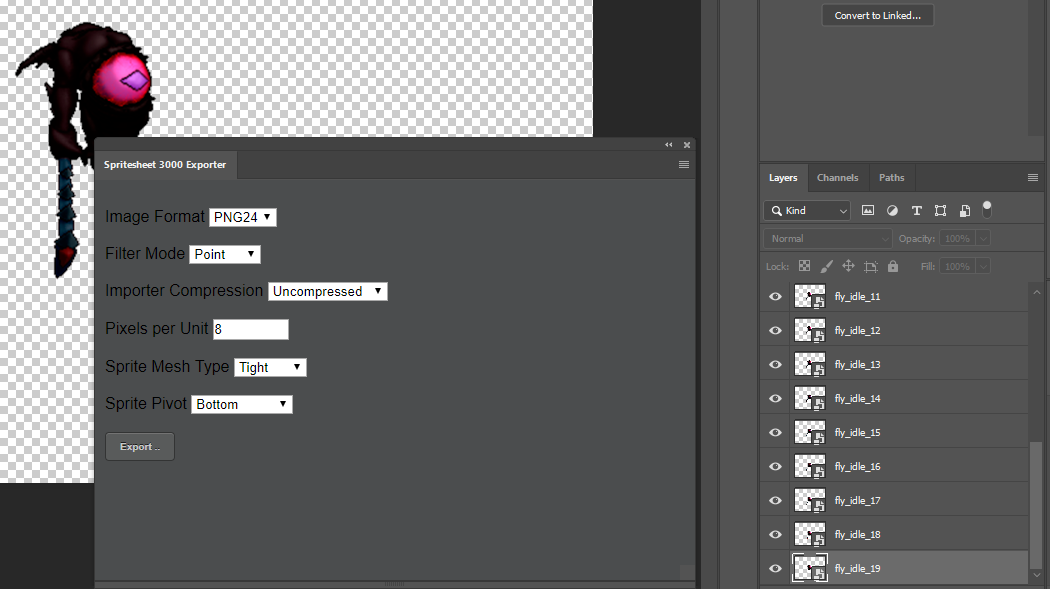
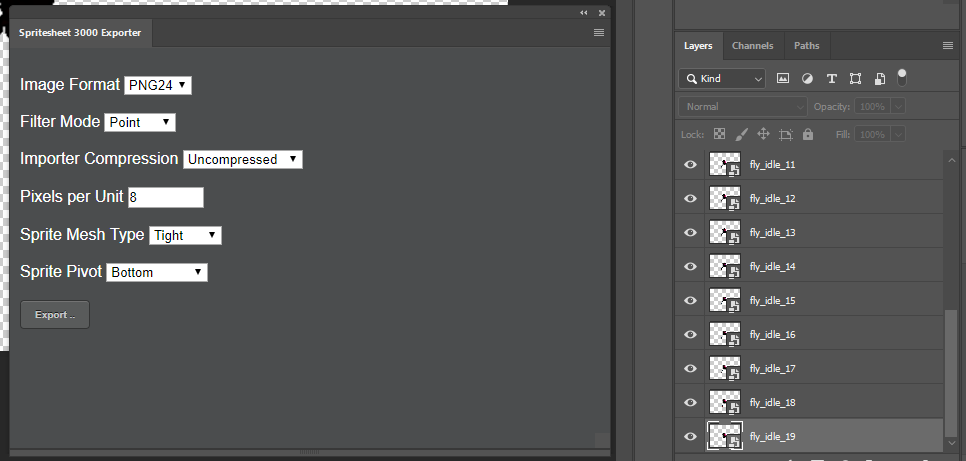
updated extension design

diff --git a/Editor/AdobePhotoshop/CC/com.am1goo.photoshop.extension.spritesheet3000/html/index.html b/Editor/AdobePhotoshop/CC/com.am1goo.photoshop.extension.spritesheet3000/html/index.html
@@ -14,7 +14,7 @@
     <div id="content">        
         <br>
         <div>
-            <span>Image Format</span>
+            <span style="color:white">Image Format</span>
             <select id="ddl_export_image_format" name="export_image_format">
                 <option selected="selected">PNG24</option>
                 <option>PNG8</option>
@@ -23,7 +23,7 @@
         </div>
         <br>
          <div>
-            <span>Filter Mode</span>
+            <span style="color:white">Filter Mode</span>
             <select id="ddl_export_filter_mode" name="export_filter_mode">
                 <option selected="selected">Point</option>
                 <option>Bilinear</option>
@@ -32,7 +32,7 @@
         </div>
         <br>
 		<div>
-            <span>Importer Compression</span>
+            <span style="color:white">Importer Compression</span>
             <select id="ddl_export_importer_compression" name="export_importer_compression">
                 <option selected="selected">Uncompressed</option>
                 <option>Compressed</option>
@@ -42,12 +42,12 @@
         </div>
 		<br>
 		<div>
-            <span>Pixels per Unit</span>
+            <span style="color:white">Pixels per Unit</span>
             <input id="ddl_export_pixels_per_unit" name="export_pixels_per_unit" type="number" min="1" max="1000" value="8"/>
         </div>
 		<br>
 		<div>
-            <span>Sprite Mesh Type</span>
+            <span style="color:white">Sprite Mesh Type</span>
             <select id="ddl_export_sprite_mesh_type" name="export_sprite_mesh_type">
                 <option>FullRect</option>
                 <option selected="selected">Tight</option>
@@ -55,7 +55,7 @@
         </div>
 		<br>
 		<div>
-            <span>Sprite Pivot</span>
+            <span style="color:white">Sprite Pivot</span>
             <select id="ddl_export_sprite_pivot" name="export_sprite_pivot">
                 <option>Center</option>
                 <option>Top Left</option>
